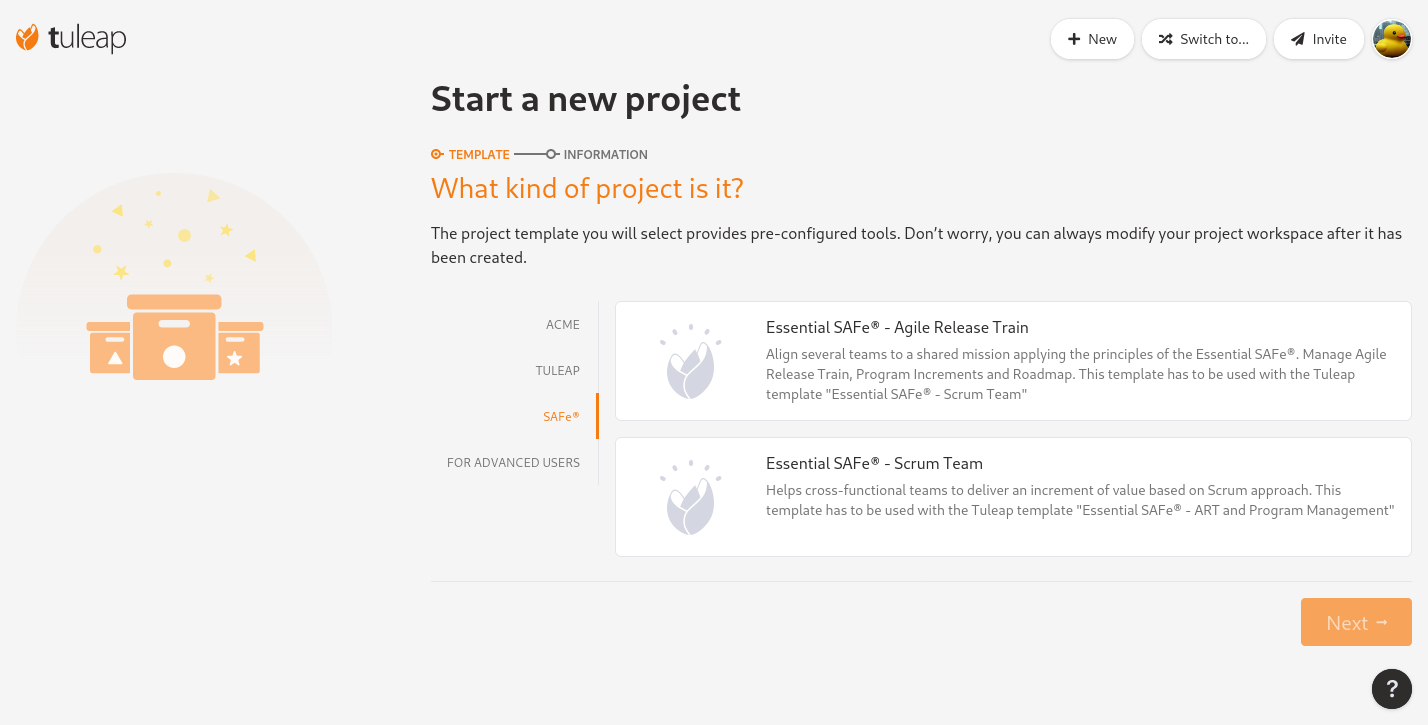
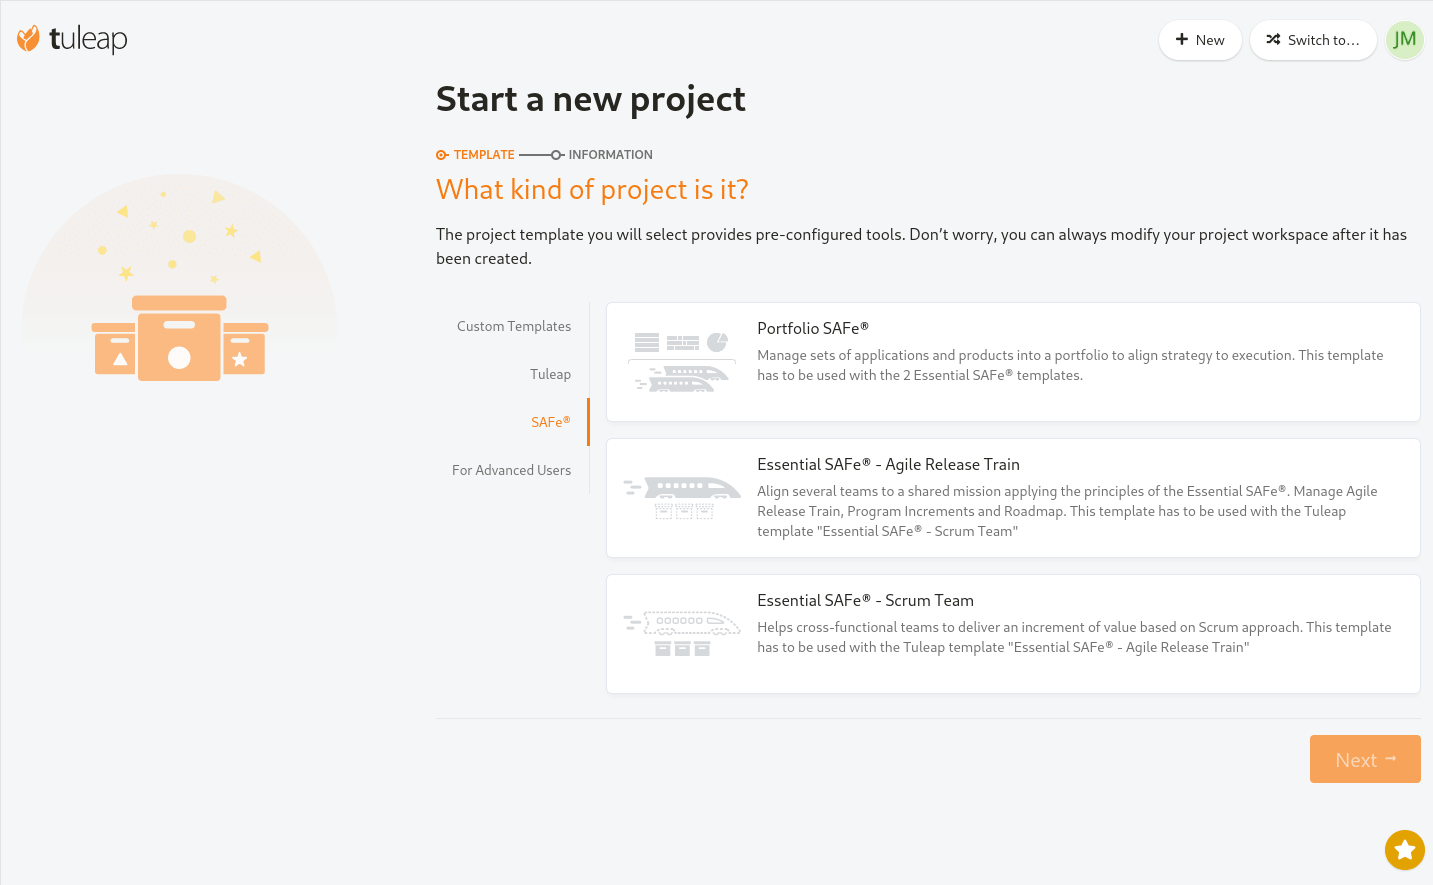
Add Portfolio to the SAFe templates

diff --git a/languages/en/user-guide/program-management.rst b/languages/en/user-guide/program-management.rst
@@ -45,13 +45,15 @@ Overview
 .. figure:: ../images/screenshots/program-management/safe-templates.png
 	:align: center
 	:alt: Tuleap SAFe® templates
-	:name: Tuleap SAFe® templates
+
+	Tuleap SAFe® templates
 
 In order to implement SAFe® with Tuleap you will need separated workspace (projects). The easiest way to start is to create
 those new workspaces with the provided templates but it's also possible to adapt an existing workspace.
 
-Tuleap provides two type of templates for workspaces:
+Tuleap provides three types of templates for workspaces:
 
+* Portfolio SAFe®
 * Essential SAFe® - Agile Release Train
 * Essential SAFe® - Scrum Team
 
